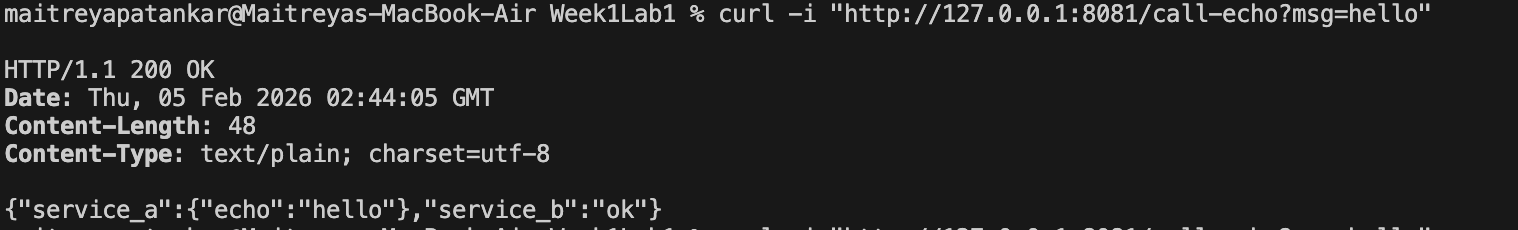
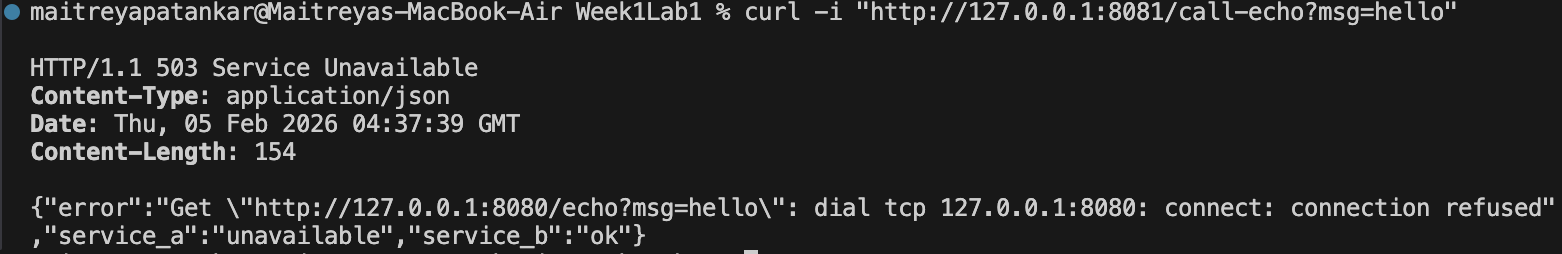
Updated proof images

diff --git a/service-b/main.go b/service-b/main.go
@@ -11,10 +11,13 @@ import (
 var client = &http.Client{Timeout: 1 * time.Second}
 
 func health(w http.ResponseWriter, r *http.Request) {
+	w.Header().Set("Content-Type", "application/json")
 	_ = json.NewEncoder(w).Encode(map[string]string{"status": "ok"})
 }
 
 func callEcho(w http.ResponseWriter, r *http.Request) {
+	w.Header().Set("Content-Type", "application/json")
+
 	msg := r.URL.Query().Get("msg")
 
 	url := fmt.Sprintf("http://127.0.0.1:8080/echo?msg=%s", msg)

diff --git a/service-a/main.go b/service-a/main.go
@@ -7,10 +7,12 @@ import (
 )
 
 func health(w http.ResponseWriter, r *http.Request) {
+	w.Header().Set("Content-Type", "application/json")
 	_ = json.NewEncoder(w).Encode(map[string]string{"status": "ok"})
 }
 
 func echo(w http.ResponseWriter, r *http.Request) {
+	w.Header().Set("Content-Type", "application/json")
 	msg := r.URL.Query().Get("msg")
 	_ = json.NewEncoder(w).Encode(map[string]string{"echo": msg})
 }

diff --git a/README.md b/README.md
@@ -3,14 +3,12 @@
 ## Run Service A
 ```bash
 cd service-a
-go mod init service-a
 go run .
 ```
 
 ## Run Service B (new terminal)
 ```bash
 cd service-b
-go mod init service-b
 go run .
 ```
 
@@ -18,13 +16,13 @@ go run .
 ```bash
 curl "http://127.0.0.1:8081/call-echo?msg=hello"
 ```
-![alt text](image-1.png)
+![alt text](image.png)
 
 ## Failure Case
 ```bash
 curl "http://127.0.0.1:8081/call-echo?msg=hello"
 ```
-![alt text](image.png)
+![alt text](image-1.png)
 
 ## What makes this distributed?
 This system is distributed because Service A and Service B run as independent processes and communicate over HTTP across the network interface (localhost). Service B depends on Service A through a remote call with a timeout, so failures like Service A being down result in partial failure rather than total application failure. The logs and 503 handling demonstrate how distributed systems must handle network unreliability and independent service failure.
